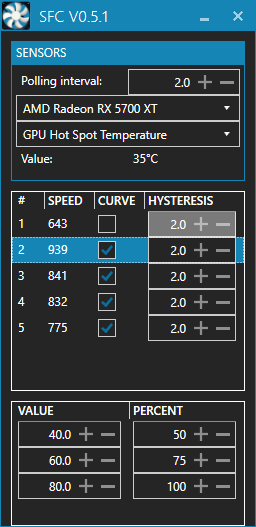
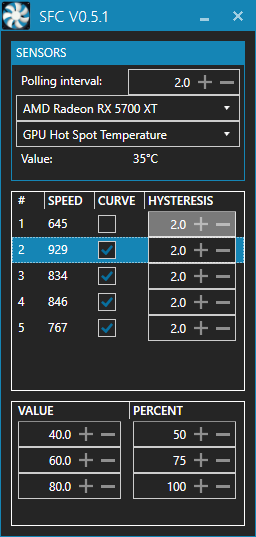
Fix window height

diff --git a/SysFanControl/MainWindow.xaml b/SysFanControl/MainWindow.xaml
@@ -8,7 +8,7 @@
         mc:Ignorable="d"
         Background="#252525"
         ResizeMode="CanMinimize" WindowStartupLocation="CenterScreen"
-        Title="{Binding Title}" Width="255.833" Height="526.833" Icon="./Resources/speedfan.ico" 
+        Title="{Binding Title}" Width="255.833" Height="536.833" Icon="./Resources/speedfan.ico" 
                  StateChanged="MetroWindow_StateChanged" Loaded="MetroWindow_Loaded" WindowState="Minimized">
     <mah:MetroWindow.Resources>
         <local:SensorValueConverter x:Key="SensorValueConverter" />

diff --git a/SysFanControl/ViewModels/MainWindowViewModel.cs b/SysFanControl/ViewModels/MainWindowViewModel.cs
@@ -34,7 +34,7 @@ namespace SysFanControl.ViewModels
             new Dictionary<IHardware, ObservableCollection<SensorEx>>();
         private double pollingInterval;
 
-        public string Version { get => "0.5.1"; }
+        public string Version { get => "0.5.2"; }
         public string Title { get => $"SFC v{Version}"; }
         public ObservableCollection<IHardware> Hardware { get; }
         public IHardware SelectedHardware
